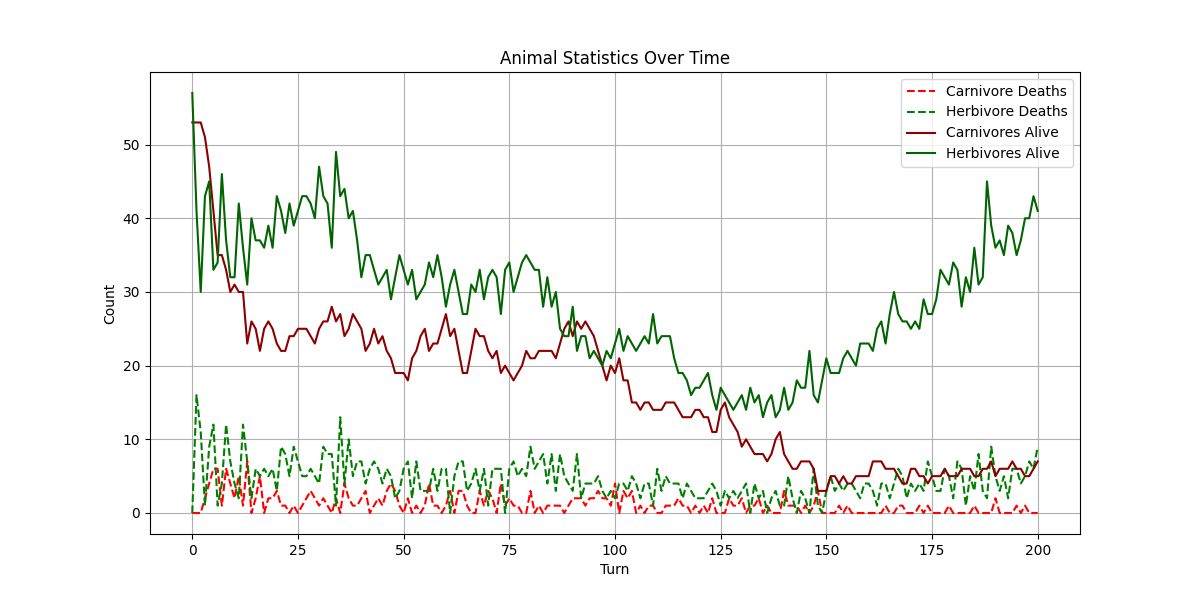
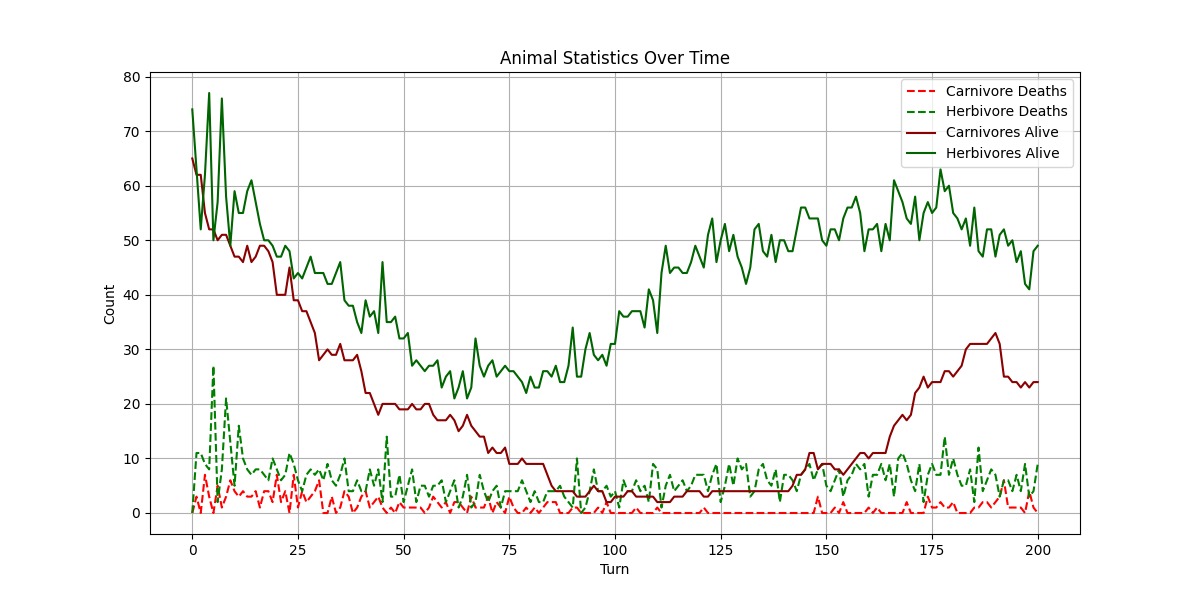
Animals spawn rates in settings

diff --git a/Simulation/Spawners/Spawner.cpp b/Simulation/Spawners/Spawner.cpp
@@ -2,36 +2,41 @@
 #include <random>
 #include "Simulation/Animals/HerbivoreAnimal.h"
 #include "Simulation/Animals/CarnivoreAnimal.h"
+#include "Utilities/FileHandling/SettingsCSVReader.h"
 
 Spawner::Spawner(Grid* grid, std::shared_ptr<StatisticsManager> stats)
-    : grid(grid), stats(std::move(stats)) {}
+    : grid(grid), stats(std::move(stats)) {
+        this->carnivorePercent = std::stof(SettingsCSVReader::getInstance()->readSettings("Spawner","herbivoresPercent"));
+        this->herbivorePercent = std::stof(SettingsCSVReader::getInstance()->readSettings("Spawner","carnivoresPercent"));
+    }
 
-int Spawner::getRandomNumber(int min, int max) {
+float Spawner::getRandomNumber() {
     std::random_device rd;
     std::mt19937 gen(rd());
-    std::uniform_int_distribution<int> dist(min, max);
+    std::uniform_real_distribution<float> dist(0.0, 1.0);
     return dist(gen);
+}
+
+void Spawner::spawnCarnivore(int i, int j){
+    stats->recordBirth("herbivore");
+    auto herbivore = std::make_shared<HerbivoreAnimal>(0, j, i);
+    grid->getTile(j, i)->addAnimalOnTile(herbivore);
+}
+
+void Spawner::spawnHerbivore(int i, int j){
+    stats->recordBirth("carnivore");
+    auto carnivore = std::make_shared<CarnivoreAnimal>(0, j, i);
+    grid->getTile(j, i)->addAnimalOnTile(carnivore);
 }
 
 void Spawner::populateGrid() {
     for (int i = 0; i < grid->getHeight(); i++) {
         for (int j = 0; j < grid->getWidth(); j++) {
-            int n = getRandomNumber(0, 16);
-            switch (n) {
-                case 0: {
-                    stats->recordBirth("herbivore");
-                    auto herbivore = std::make_shared<HerbivoreAnimal>(0, j, i);
-                    grid->getTile(j, i)->addAnimalOnTile(herbivore);
-                    break;
-                }
-                case 1: {
-                    stats->recordBirth("carnivore");
-                    auto carnivore = std::make_shared<CarnivoreAnimal>(0, j, i);
-                    grid->getTile(j, i)->addAnimalOnTile(carnivore);
-                    break;
-                }
-                default:
-                    break;
+            if(getRandomNumber()<herbivorePercent){
+                spawnHerbivore(i, j);
+            }
+            if(getRandomNumber()<carnivorePercent){
+                spawnCarnivore(i, j);
             }
         }
     }

diff --git a/Simulation/Spawners/Spawner.h b/Simulation/Spawners/Spawner.h
@@ -9,8 +9,11 @@ class Spawner {
 private:
     Grid* grid;
     std::shared_ptr<StatisticsManager> stats;
-
-    int getRandomNumber(int min, int max);
+    void spawnHerbivore(int i, int j);
+    void spawnCarnivore(int i, int j);
+    float getRandomNumber();
+    float herbivorePercent;
+    float carnivorePercent;
 
 public:
     Spawner(Grid* grid, std::shared_ptr<StatisticsManager> stats);
